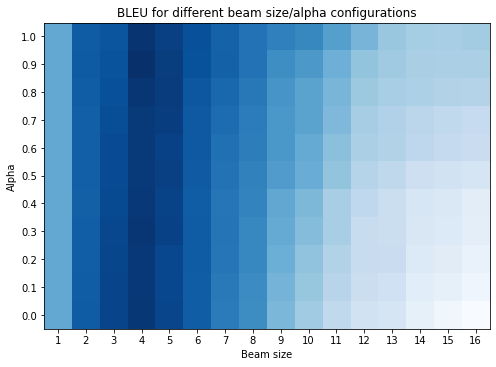
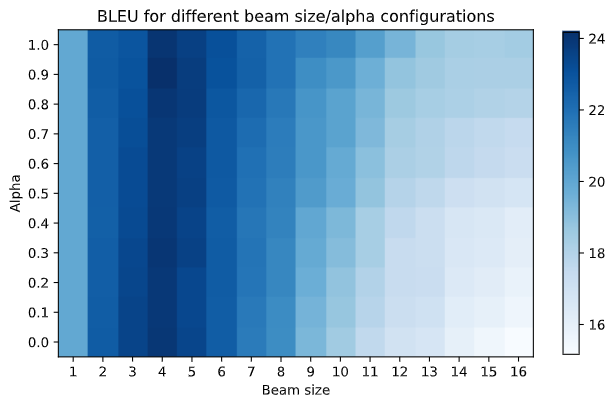
add legend to heatmap and bleu score to labrador

diff --git a/assignments/04/labrador.md b/assignments/04/labrador.md
@@ -47,9 +47,9 @@ This for loop strips away the padding, or more precisely, strips away everything
 
 We searched the space with $\alpha = [0, 1], k = [1, 16]$ for the optimal combination of length normalization and beam size. The following heatmap shows the BLEU score for the tested hyperparameter space.
 
-![Heatmap of BLEU scores for different configurations of beam size and alpha](img/heatmap.png){width=8cm}
+![Heatmap of BLEU scores for different configurations of beam size and alpha](img/heatmap.png){width=10cm}
 
-The optimal configuration turns out to be $\alpha = 0.9, k = 4$. As the heatmap shows, BLEU is much more sensitive to beam size than to length normalization.
+The optimal configuration turns out to be $\alpha = 0.9, k = 4$, with a BLEU score of 24.17. As the heatmap shows, BLEU is much more sensitive to beam size than to length normalization.
 
 <!-- Find the optimal α value for the best beam size k from exercise 1 -->
 <!-- Redo exercise 1, but this time with the new α. Does the best beam size k change? --->
